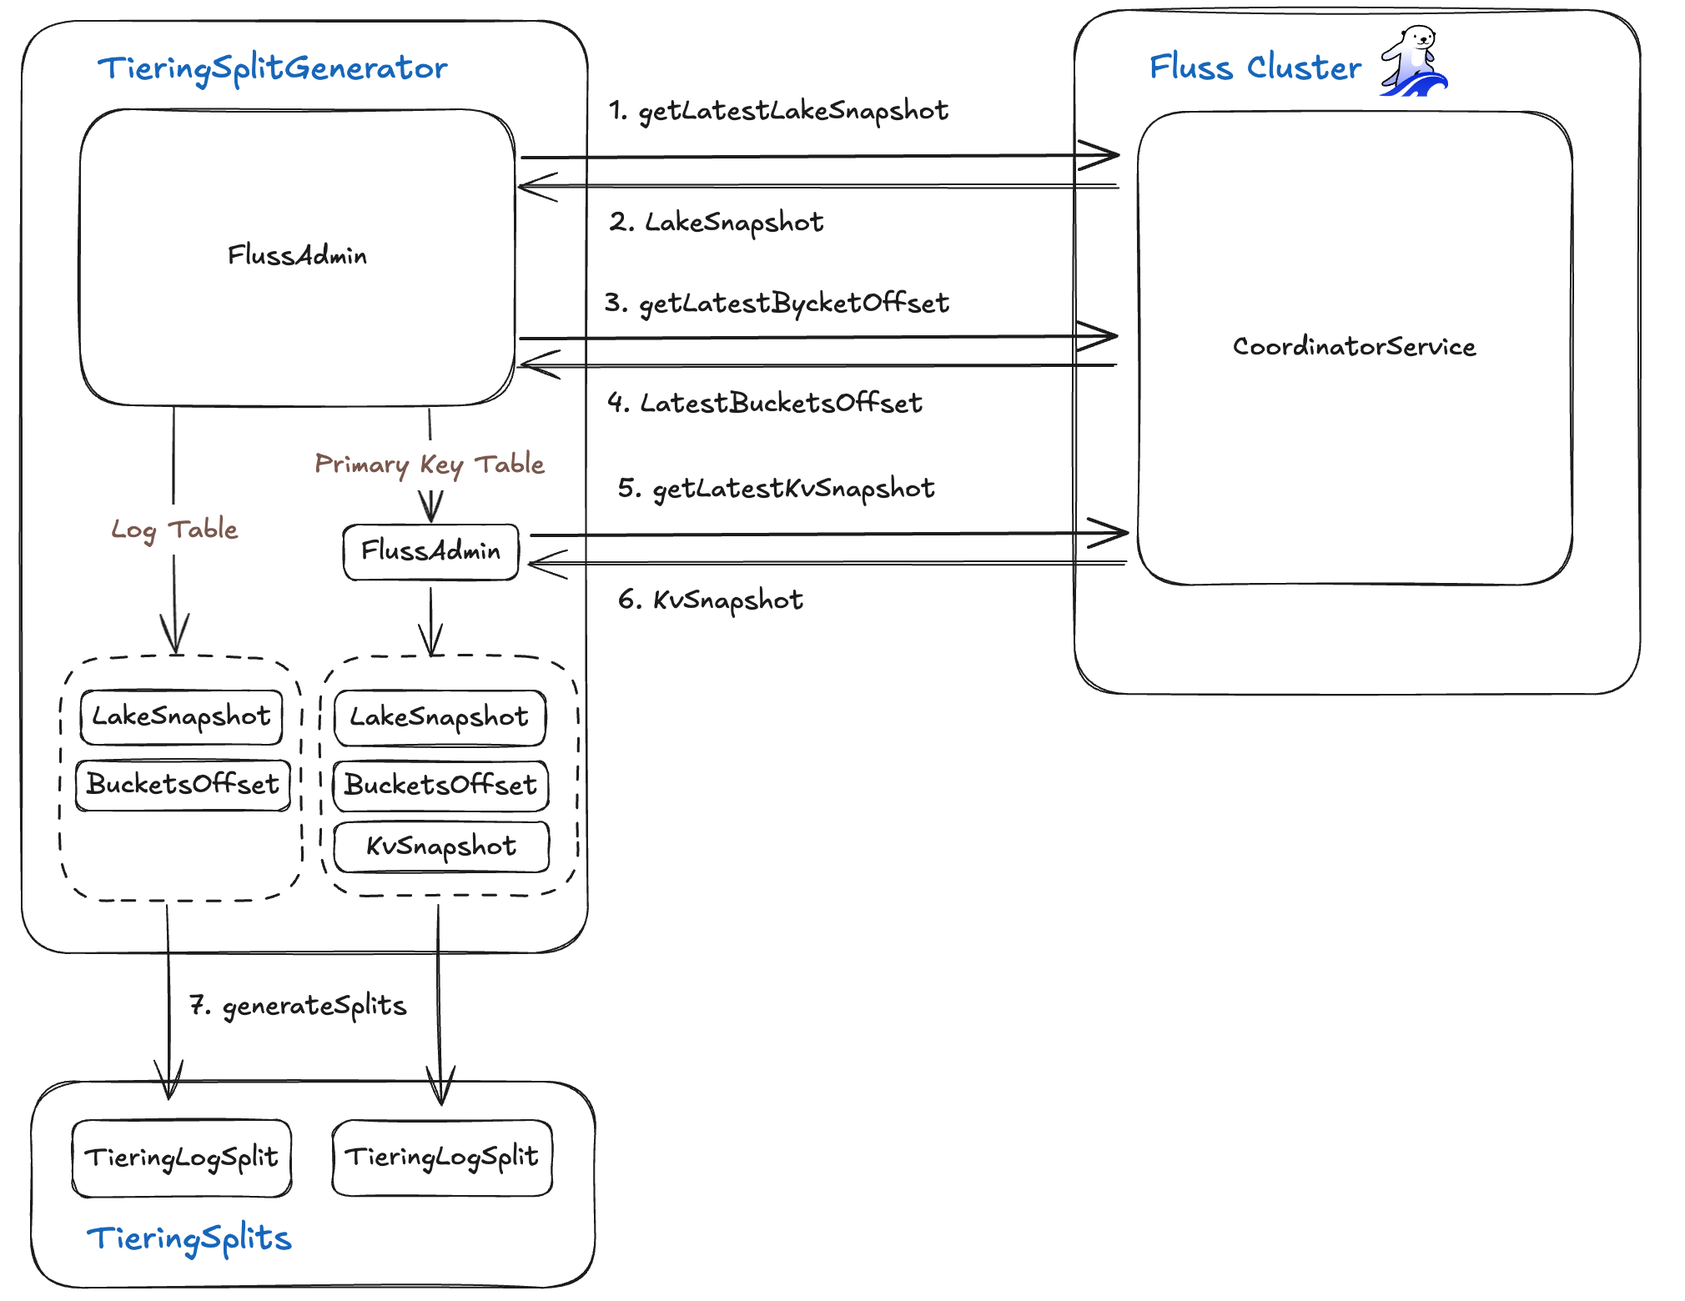
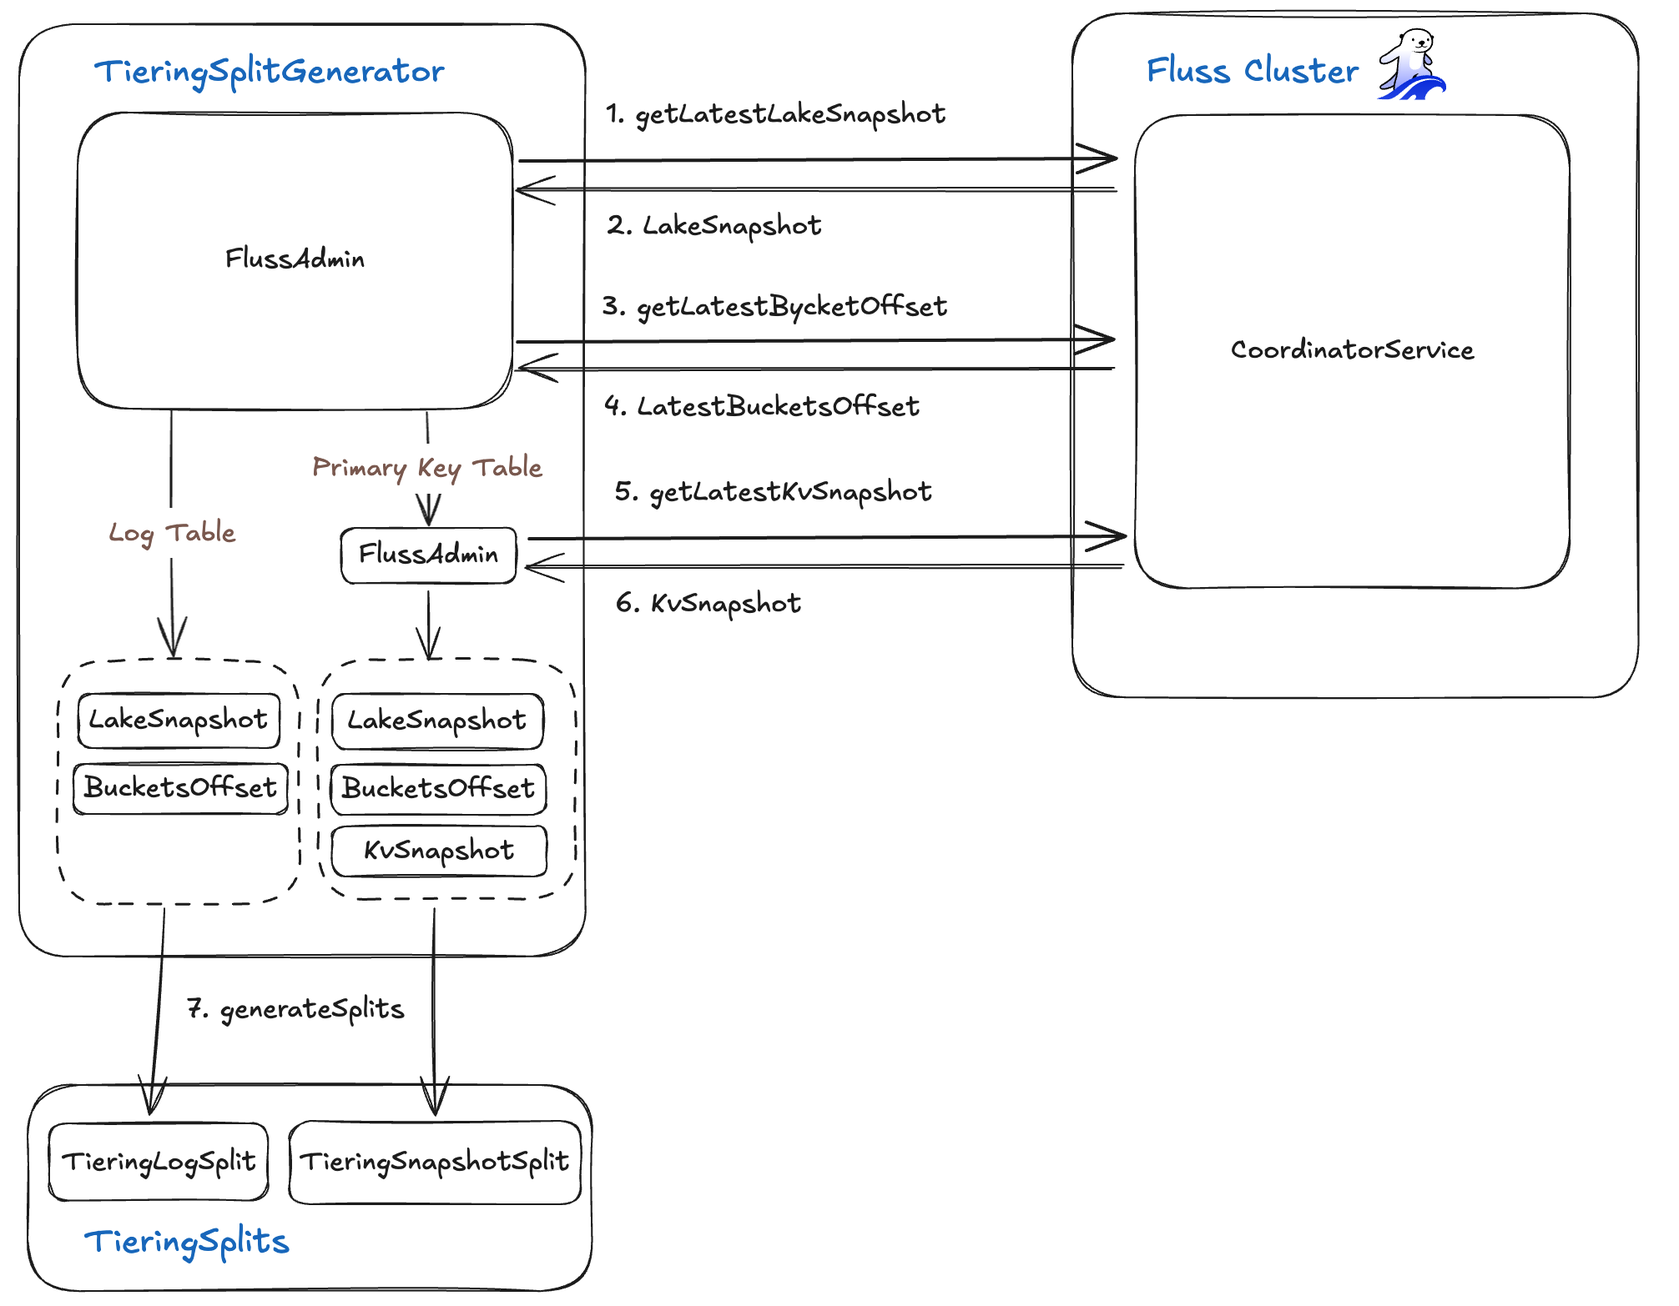
fix: image

diff --git a/docs/notes/fluss/03-tiering-service-deep-dive-zh.md b/docs/notes/fluss/03-tiering-service-deep-dive-zh.md
@@ -1,0 +1,194 @@
+---
+title: Tiering Service Deep Dive
+tags: fluss
+outline: deep
+---
+
+# Tiering Service Deep Dive
+
+## 背景
+
+![](./img/03/background.png)
+
+Fluss 湖仓架构的核心是**分层服务 (Tiering Service)** —— 这是一个智能的、策略驱动的数据管道，它无缝地连接着您的实时 Fluss 集群和高性价比的湖仓存储。该服务持续从 Fluss 集群摄取新事件，并自动将较旧或访问频率较低的数据迁移到更冷的存储层中，且整个过程不会中断正在进行的查询。通过根据可配置的规则平衡热、温、冷存储，分层服务确保了最新数据立即可查，同时又能经济高效地归档历史记录。在本篇深度剖析中，我们将探讨 Fluss 的分层服务如何编排数据、保障数据一致性，并在兼顾性能与成本的前提下完成数据分析工作。
+
+## Flink 分层服务 (Flink Tiering Service)
+
+Fluss 分层服务是作为一个 Flink job 实现的，它持续地将数据从 Fluss 集群流式传输到您的数据湖中。其执行图非常简单，由三个算子（operators）组成：
+
+```
+ Source: TieringSource -> TieringCommitter -> Sink: Writer
+```
+
+- **TieringSource**: 从 Fluss 表读取记录并将其写入数据湖。
+- **TieringCommitter**: 通过推进数据湖仓和 Fluss 集群中的偏移量（offsets）来提交每个同步批次（sync batch）。
+- **No-Op Sink**: 一个虚拟接收器（dummy sink），不执行任何实际操作。
+
+在接下来的章节中，我们将深入探讨 TieringSource 和 TieringCommitter，看看它们究竟是如何编排实时存储与历史存储之间的无缝数据传输的。
+
+## TieringSource
+
+![](./img/03/tiering-source.png)
+
+**TieringSource 算子** 从 Fluss 分层表（tiering table）读取记录并将其写入您的数据湖。它构建在 Flink 的 Source V2 API ([FLIP-27](https://cwiki.apache.org/confluence/display/FLINK/FLIP-27%3A+Refactor+Source+Interface)) 之上，分解为两个核心组件：**TieringSourceEnumerator** 和 **TieringSourceReader**。其高层工作流程如下：
+
+1. **Enumerator** 向 CoordinatorService 查询当前分层表的元数据。
+2. 一旦收到表信息，Enumerator 生成“分片”（splits，即数据分区）并将它们分配给 Reader。
+3. **Reader** 获取每个分片的实际数据。
+4. 随后，Reader 将这些记录写入数据湖。
+
+在接下来的章节中，我们将深入探讨 TieringSourceEnumerator 和 TieringSourceReader 的内部工作机制，了解它们如何实现从 Fluss 到湖仓的可靠、可扩展的数据摄取。
+
+### TieringSourceEnumerator
+
+![](./img/03/tiering-source-enumerator.png)
+
+**TieringSourceEnumerator** 通过五个关键步骤编排分片的创建和分配：
+
+1. **心跳请求 (Heartbeat Request)**：使用 RPC 客户端向 Fluss 服务器发送 **`lakeTieringHeartbeatRequest`**。
+2. **心跳响应 (Heartbeat Response)**：接收包含分层表元数据以及已完成、失败和进行中表的同步状态的 **`lakeTieringHeartbeatResponse`**。
+3. **湖分层信息 (Lake Tiering Info)**：将返回的 **`lakeTieringInfo`** 转发给 **`TieringSplitGenerator`**。
+4. **分片生成 (Split Generation)**：**`TieringSplitGenerator`** 生成一组 **`TieringSplits`**——每个分片代表一个待处理的数据分区。
+5. **分片分配 (Split Assignment)**：将这些 **`TieringSplits`** 分配给 **`TieringSourceReader`** 实例，以便后续摄取到数据湖中。
+
+#### RpcClient
+
+- **发送心跳 (Sending Heartbeats)**：它构造并发送 **`LakeTieringHeartbeatRequest`** 消息。该消息携带三个表列表——**`tiering_tables`**（进行中）、**`finished_tables`**（已完成）和 **`failed_tables`**（失败）——以及一个可选的 **`request_table`** 标志（用于请求新的分层工作）。
+- **接收响应 (Receiving Responses)**：它等待一个包含以下内容的 **`LakeTieringHeartbeatResponse`** 响应：
+    - **`coordinator_epoch`**：Coordinator 的当前纪元（epoch）。
+    - **`tiering_table`** (可选)：一个 **`PbLakeTieringTableInfo`** 消息（包含 **`table_id`**、**`table_path`** 和 **`tiering_epoch`**），描述下一个要进行分层的表。
+    - **`tiering_table_resp`**、**`finished_table_resp`** 和 **`failed_table_resp`**：反映每个表状态的心跳响应列表。
+- **转发元数据 (Forwarding Metadata)**：它解析返回的 **`PbLakeTieringTableInfo`** 和同步状态响应，然后将组装好的 **`lakeTieringInfo`** 转发给 **`TieringSplitGenerator`** 用于创建分片。
+
+
+#### TieringSplitGenerator
+
+![](./img/03/tiering-split-generator.png)
+
+**TieringSplitGenerator** 计算您的湖仓与 Fluss 集群之间精确的数据差异（delta），然后为每个需要同步的数据段生成 **`TieringSplit`** 任务。它使用 **`FlussAdminClient`** 获取三个核心元数据：
+
+1. **湖快照 (Lake Snapshot)**
+    - 调用湖元数据 API 获取 **`LakeSnapshot`** 对象，该对象包含：
+        - **`snapshotId`**（数据湖中最新已提交的快照 ID）
+        - **`tableBucketsOffset`**（一个映射，将每个 **`TableBucket`** 关联到其在湖仓中的日志偏移量）
+2. **当前桶偏移量 (Current Bucket Offsets)**
+    - 向 Fluss 服务器查询每个桶（bucket）当前的日志结束偏移量（log end offset），捕获输入流的高水位标记（high-water mark）。
+3. **KV 快照 (KV Snapshots) (针对主键表)**
+    - 获取一个 **`KvSnapshots`** 记录，包含：
+        - **`tableId`** 和可选的 **`partitionId`**
+        - **`snapshotIds`**（每个桶的最新快照 ID）
+        - **`logOffsets`**（在该快照之后恢复读取的日志位置）
+
+利用 **`LakeSnapshot`**、实时的桶偏移量以及（如果适用）**`KvSnapshots`**，生成器计算出哪些日志段存在于 Fluss 中但尚未提交到湖仓。然后，它为每个段生成一个 **`TieringSplit`**——每个分片精确定义了要摄取的桶和偏移量范围——从而实现了实时存储与历史存储之间的增量式、高效同步。
+
+#### TieringSplit
+
+**TieringSplit** 抽象精确定义了需要同步的表桶（table bucket）中的哪一部分数据。它捕获三个公共字段：
+
+- **tablePath**: 目标表的完整路径。
+- **tableBucket**: 该表中的特定桶（分片/shard）。
+- **partitionName** (可选): 分区键（如果表是分区的）。
+
+有两种具体分片类型：
+
+1. **TieringLogSplit** (用于仅追加的“日志”表)
+    - **startingOffset**: 湖仓中最后提交的日志偏移量。
+    - **stoppingOffset**: 实时 Fluss 桶中的当前结束偏移量。
+    - 此分片定义了一个需要摄取的新日志记录的连续范围。
+2. **TieringSnapshotSplit** (用于主键表)
+    - **snapshotId**: Fluss 中最新快照的标识符。
+    - **logOffsetOfSnapshot**: 拍摄该快照时的日志偏移量。
+    - 此分片让 TieringSourceReader 能够重放（replay）自该快照以来的所有 CDC（变更数据捕获）事件，确保状态是最新的。
+
+通过将每个表分解成这些定义明确的分片，分层服务能够以增量、可靠且并行的方式，仅同步数据湖中缺失的那部分数据。
+
+### TieringSourceReader
+
+![](./img/03/tiering-source-reader.png)
+
+**TieringSourceReader** 从 Enumerator 拉取分配的分片（splits），使用 **`TieringSplitReader`** 从 Fluss 服务器获取相应的记录，然后将它们写入数据湖。其工作流程分解如下：
+
+1. **分片选择 (Split Selection)**
+    
+    该 Reader 从其队列中选取一个分配的 **`TieringSplit`**。
+    
+2. **Reader 分派 (Reader Dispatch)**
+    
+    根据分片类型，它实例化对应的 Reader：
+    
+    - **LogScanner**：用于 **`TieringLogSplit`**（仅追加表）
+    - **BoundedSplitReader**：用于 **`TieringSnapshotSplit`**（主键表）
+3. **数据获取 (Data Fetch)**
+    
+    选定的 Reader 从 Fluss 服务器获取由分片的偏移量或快照边界定义的记录。
+    
+4. **湖写入 (Lake Writing)**
+    
+    检索到的记录被移交给 Lake Writer，由后者将它们持久化到数据湖中。
+    
+
+通过清晰分离分片分配、Reader 选择、数据获取和湖写入，TieringSourceReader 确保了流数据和快照数据可扩展、并行地摄取到您的湖仓中。
+
+#### LakeWriter & LakeTieringFactory
+
+**LakeWriter** 负责将 Fluss 记录持久化到您的数据湖中，它是通过一个可插拔的 **LakeTieringFactory** 接口实例化的。该接口定义了 Fluss 如何与不同的湖存储格式（例如 Paimon、Iceberg）交互：
+
+
+```java
+public interface LakeTieringFactory {
+
+	LakeWriter<WriteResult> createLakeWriter(WriterInitContext writerInitContext);
+
+	****SimpleVersionedSerializer<WriteResult> getWriteResultSerializer();
+
+	LakeCommitter<WriteResult, CommitableT> createLakeCommitter(
+            CommitterInitContext committerInitContext);
+
+	SimpleVersionedSerializer<CommitableT> getCommitableSerializer();
+}
+```
+
+- **createLakeWriter(WriterInitContext)**：构建一个 **`LakeWriter`**，用于将 Fluss 行转换为目标表格式。
+- **getWriteResultSerializer()**：提供用于序列化 Writer 输出的序列化器。
+- **createLakeCommitter(CommitterInitContext)**：构造一个 **`LakeCommitter`**，用于最终确定并原子性地提交数据文件。
+- **getCommitableSerializer()**：提供用于可提交令牌（committable tokens）的序列化器。
+
+默认情况下，Fluss 包含一个基于 Paimon 的分层工厂；Iceberg 的支持即将推出。一旦 **`TieringSourceReader`** 通过 **`LakeWriter`** 写入一批记录，它就会将产生的写入元数据向下游发出给 **TieringCommitOperator**，后者随后在湖仓和 Fluss 集群中提交这些更改。
+
+#### Stateless
+
+**`TieringSourceReader`** 被设计为完全无状态——它本身不进行状态检查点（checkpoint）或存储任何 **`TieringSplit`** 信息。相反，每次检查点（checkpoint）只返回一个空列表，将所有分片跟踪工作留给 **`TieringSourceEnumerator`**：
+
+```java
+@Override
+public List<TieringSplit> snapshotState(long checkpointId) {
+// 无状态：Reader 状态中不持有任何分片return Collections.emptyList();
+}
+```
+
+通过将分片分配完全委托给 Enumerator，Reader 保持轻量级且易于扩展，始终从 Coordinator 处获取新的工作单元。
+
+## TieringCommitter
+
+**TieringCommitter** 算子收集来自 TieringSource 的分层表同步写入结果，然后将结果提交到湖仓和 Fluss 服务器以更新状态。
+
+![](./img/03/tiering-committer.png)
+
+**TieringCommitter** 算子通过获取 TieringSourceReader 输出的 **`WriteResult`** 并分两个阶段提交它们（先提交到数据湖，然后提交回 Fluss）来结束每个同步周期，最后向 Flink coordinator 发出状态事件。它利用两个组件：
+
+- **LakeCommitter**：由可插拔的 **`LakeTieringFactory`** 提供，该组件原子性地将写入的文件提交到湖仓，并返回新的快照 ID。
+- **FlussTableLakeSnapshotCommitter**：使用该快照 ID，它更新 Fluss 集群的分层表状态，使 Fluss 服务器和湖仓保持同步。
+
+端到端流程是：
+
+1. **收集写入结果**：从 TieringSourceReader 收集当前检查点的写入结果。
+2. **湖仓提交**：通过 **`LakeCommitter`** 完成文件并推进湖仓快照。
+3. **Fluss 更新**：使用 **`FlussTableLakeSnapshotCommitter`**，向 Fluss CoordinatorService 确认成功或失败。
+4. **事件发出**：向 Flink **`OperatorCoordinator`** 发出 **`FinishedTieringEvent`**（成功或完成时）或 **`FailedTieringEvent`**（出错时）。
+
+TieringCommitter 算子确保了您的实时 Fluss 集群与分析型湖仓之间具有精确一次（exactly-once）语义的一致性同步。
+
+## 结论
+
+在本次深度剖析中，我们拆解了 Fluss 分层服务的每一层——从 TieringSource（Enumerator、RpcClient 和 SplitGenerator）开始，探讨了分片类型和无状态的 TieringSourceReader，并探索了可插拔的 LakeWriter/LakeCommitter 集成。然后，我们了解了 TieringCommitter（及其 LakeCommitter 和 FlussTableLakeSnapshotCommitter）如何确保在您的数据湖和 Fluss 集群之间进行原子性的、精确一次的提交。这些组件共同构建了一个强大的管道，能够可靠地同步实时流和历史快照，为您在实时负载和分析存储之间提供无缝、可扩展的一致性服务。
+

diff --git a/docs/notes/fluss/04-hands-on-fluss-lakehouse.md b/docs/notes/fluss/04-hands-on-fluss-lakehouse.md
@@ -12,17 +12,56 @@ Fluss persists historical data in a lakehouse storage layer while keeping real-t
 
 In this tutorial, we’ll show you how to build a local Fluss lakehouse environment, perform essential data operations, and get hands-on experience with the end-to-end Fluss lakehouse architecture.
 
-## Integrate the Lakehouse Locally
+## Integrate the Paimon Lakehouse with S3 Locally
 
-We’ll use **Fluss 0.7** and **Flink 1.20** to run the tiering service on a local cluster, with **Paimon** as the lake format. Follow these steps:
+We’ll use **Fluss 0.7** and **Flink 1.20** to run the tiering service on a local cluster, with **Paimon** as the lake format and **S3** as paimon storage. Follow these steps:
+
+### Minio Setup
+
+1. Install Minio object storage locally. 
+   
+Follow the official ![guide](https://min.io/docs/minio/macos/index.html).
+
+2. Start minio server 
+
+Run this command with a local path to store minio data.
+```
+minio server /tmp/minio-data
+```
+
+3. Verify in Minio WebUI.
+
+If minio server is successfully running, there will be several endpoints and an account shown:
+
+```
+API: http://192.168.2.236:9000  http://127.0.0.1:9000
+   RootUser: minioadmin
+   RootPass: minioadmin
+
+WebUI: http://192.168.2.236:61832 http://127.0.0.1:61832
+   RootUser: minioadmin
+   RootPass: minioadmin
+```
+Open the webUI link and login with the user account.
+
+4. Create a `fluss` bucket through webUI.
+
+![](./img/04/fluss-bucket.png)
+
 
 ### Fluss Cluster Setup
 
 1. Download Fluss
 
-Get the Fluss 0.7 binary release from the [official site](https://alibaba.github.io/fluss-docs/downloads/).
+Get the Fluss 0.7 binary release from the ![official site](https://alibaba.github.io/fluss-docs/downloads/).
 
-2. Configure the Data Lake
+2. Add dependency
+
+Download the `fluss-fs-s3-0.7.0.jar` from Fluss ![official site](https://alibaba.github.io/fluss-docs/downloads/) and put it into `<FLUSS_HOME>/lib`.
+
+Download the `paimon-s3-1.0.1.jar` from Paimon ![official site]() and put it into `<FLUSS_HOME>/plugins/paimon`.
+
+3. Configure the Data Lake
 
 Edit `<FLUSS_HOME>/conf/server.yaml` and add:
 
@@ -32,8 +71,14 @@ remote.data.dir: /tmp/fluss-remote-data
 
 datalake.format: paimon
 datalake.paimon.metastore: filesystem
-datalake.paimon.warehouse: /tmp/fluss-paimon-data
+datalake.paimon.warehouse: s3://fluss/data
+datalake.paimon.s3.endpoint: http://localhost:9000
+datalake.paimon.s3.access-key: minioadmin
+datalake.paimon.s3.secret-key: minioadmin
+datalake.paimon.s3.path.style.access: true
 ```
+
+Set Paimon as the datalake format and s3 as the warehouse.
 
 3. Start Fluss
 
@@ -55,16 +100,15 @@ Download `fluss-flink-1.20-0.7.0.jar` from the [Fluss site](https://alibaba.gith
 <FLINK_HOME>/lib
 ```
 
-3. Add Paimon Support
+3. Add Paimon Dependencies
 
-- Download `paimon-flink-1.20-1.01.jar` from the [Paimon project site](https://paimon.apache.org/docs/1.0/project/download/) into `<FLINK_HOME>/lib`.
+- Download `paimon-flink-1.20-1.0.1.jar` and `paimon-s3-1.0.1.jar` from the [Paimon project site](https://paimon.apache.org/docs/1.0/project/download/) into `<FLINK_HOME>/lib`.
 - Copy the Paimon plugin jars from Fluss into `<FLINK_HOME>/lib` .
 
 ```java
 <FLUSS_HOME>/plugins/paimon/fluss-lake-paimon-0.7.0.jar
 <FLUSS_HOME>/plugins/paimon/flink-shaded-hadoop-2-uber-2.8.3-10.0.jar
 ```
-
 
 4. Increase Task Slots
 
@@ -227,39 +271,50 @@ The __offset and __timestamp columns for these two records are not the default v
 
 6. Inspect the Paimon Files
 
-On your local filesystem, you can verify the Parquet files and manifest under `/tmp/fluss-paimon-data` .
+Open the Minio webUI, you will see there exists paimon files in the bucket.
+
+![](./img/04/fluss-bucket-data.png)
+
+In your local filesystem, you can verify the Parquet files and manifest under `/tmp/minio-data` .
 
 ```
-/tmp/fluss-paimon-data ❯ tree .                                   00:20:07
+/tmp/minio-data ❯ tree .
 .
-├── default.db
-└── fluss.db
-    └── t_user
-        ├── bucket-0
-        │         ├── changelog-bd4303c8-80f1-4b7b-9dc6-c6a3ce96aa47-0.parquet
-        │         ├── changelog-e0209369-16ba-462c-af0a-815f57d72553-0.parquet
-        │         ├── data-bd4303c8-80f1-4b7b-9dc6-c6a3ce96aa47-1.parquet
-        │         └── data-e0209369-16ba-462c-af0a-815f57d72553-1.parquet
-        ├── manifest
-        │         ├── manifest-bbb24f9d-a4b9-4ea6-82ef-97b16c7f23d8-0
-        │         ├── manifest-bbb24f9d-a4b9-4ea6-82ef-97b16c7f23d8-1
-        │         ├── manifest-e7bf8240-a442-40f3-8b82-8ff5619dc7e9-0
-        │         ├── manifest-e7bf8240-a442-40f3-8b82-8ff5619dc7e9-1
-        │         ├── manifest-list-8e23b5ce-0b39-407f-b8ba-7aaaee629154-0
-        │         ├── manifest-list-8e23b5ce-0b39-407f-b8ba-7aaaee629154-1
-        │         ├── manifest-list-8e23b5ce-0b39-407f-b8ba-7aaaee629154-2
-        │         ├── manifest-list-e10b824d-1a07-47a2-8f91-b12c170cfc43-0
-        │         ├── manifest-list-e10b824d-1a07-47a2-8f91-b12c170cfc43-1
-        │         └── manifest-list-e10b824d-1a07-47a2-8f91-b12c170cfc43-2
-        ├── schema
-        │         └── schema-0
-        └── snapshot
-            ├── LATEST
-            ├── snapshot-1
-            └── snapshot-2
+└── fluss
+    └── data
+        ├── default.db__XLDIR__
+        │   └── xl.meta
+        └── fluss.db
+            └── t_user
+                ├── bucket-0
+                │   ├── changelog-ad07a5a0-10c8-48a9-93c5-11d43e35c9d9-0.parquet
+                │   │   └── xl.meta
+                │   └── data-ad07a5a0-10c8-48a9-93c5-11d43e35c9d9-1.parquet
+                │       └── xl.meta
+                ├── manifest
+                │   ├── manifest-6bb801ab-9a80-4df1-927f-063b73764cf8-0
+                │   │   └── xl.meta
+                │   ├── manifest-6bb801ab-9a80-4df1-927f-063b73764cf8-1
+                │   │   └── xl.meta
+                │   ├── manifest-list-e8b9cde3-5b94-456e-a702-cedd498e1c5f-0
+                │   │   └── xl.meta
+                │   ├── manifest-list-e8b9cde3-5b94-456e-a702-cedd498e1c5f-1
+                │   │   └── xl.meta
+                │   └── manifest-list-e8b9cde3-5b94-456e-a702-cedd498e1c5f-2
+                │       └── xl.meta
+                ├── schema
+                │   └── schema-0
+                │       └── xl.meta
+                └── snapshot
+                    ├── LATEST
+                    │   └── xl.meta
+                    └── snapshot-1
+                        └── xl.meta
+
+20 directories, 11 files
 ```
 
-7. View Snapshots
+1. View Snapshots
 
 Users can also check the snapshots from the system table, by appending `$lake$snapshots` after thefluss table name.
 
